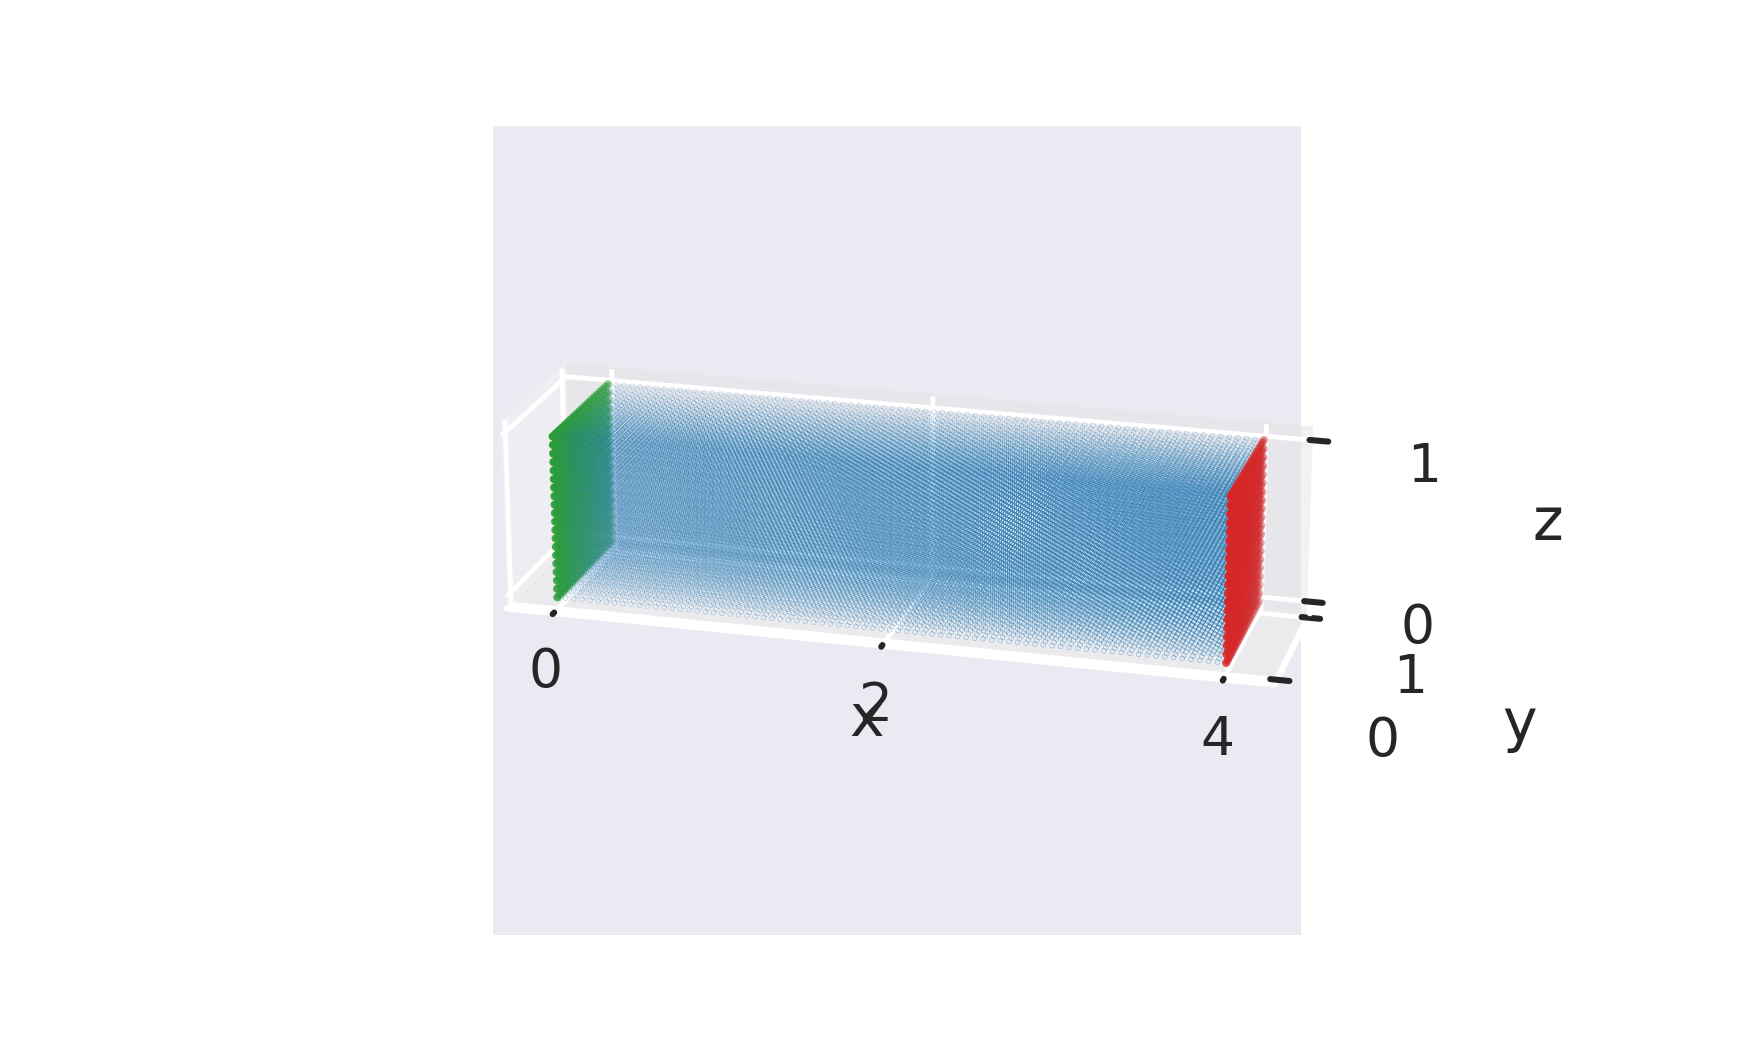
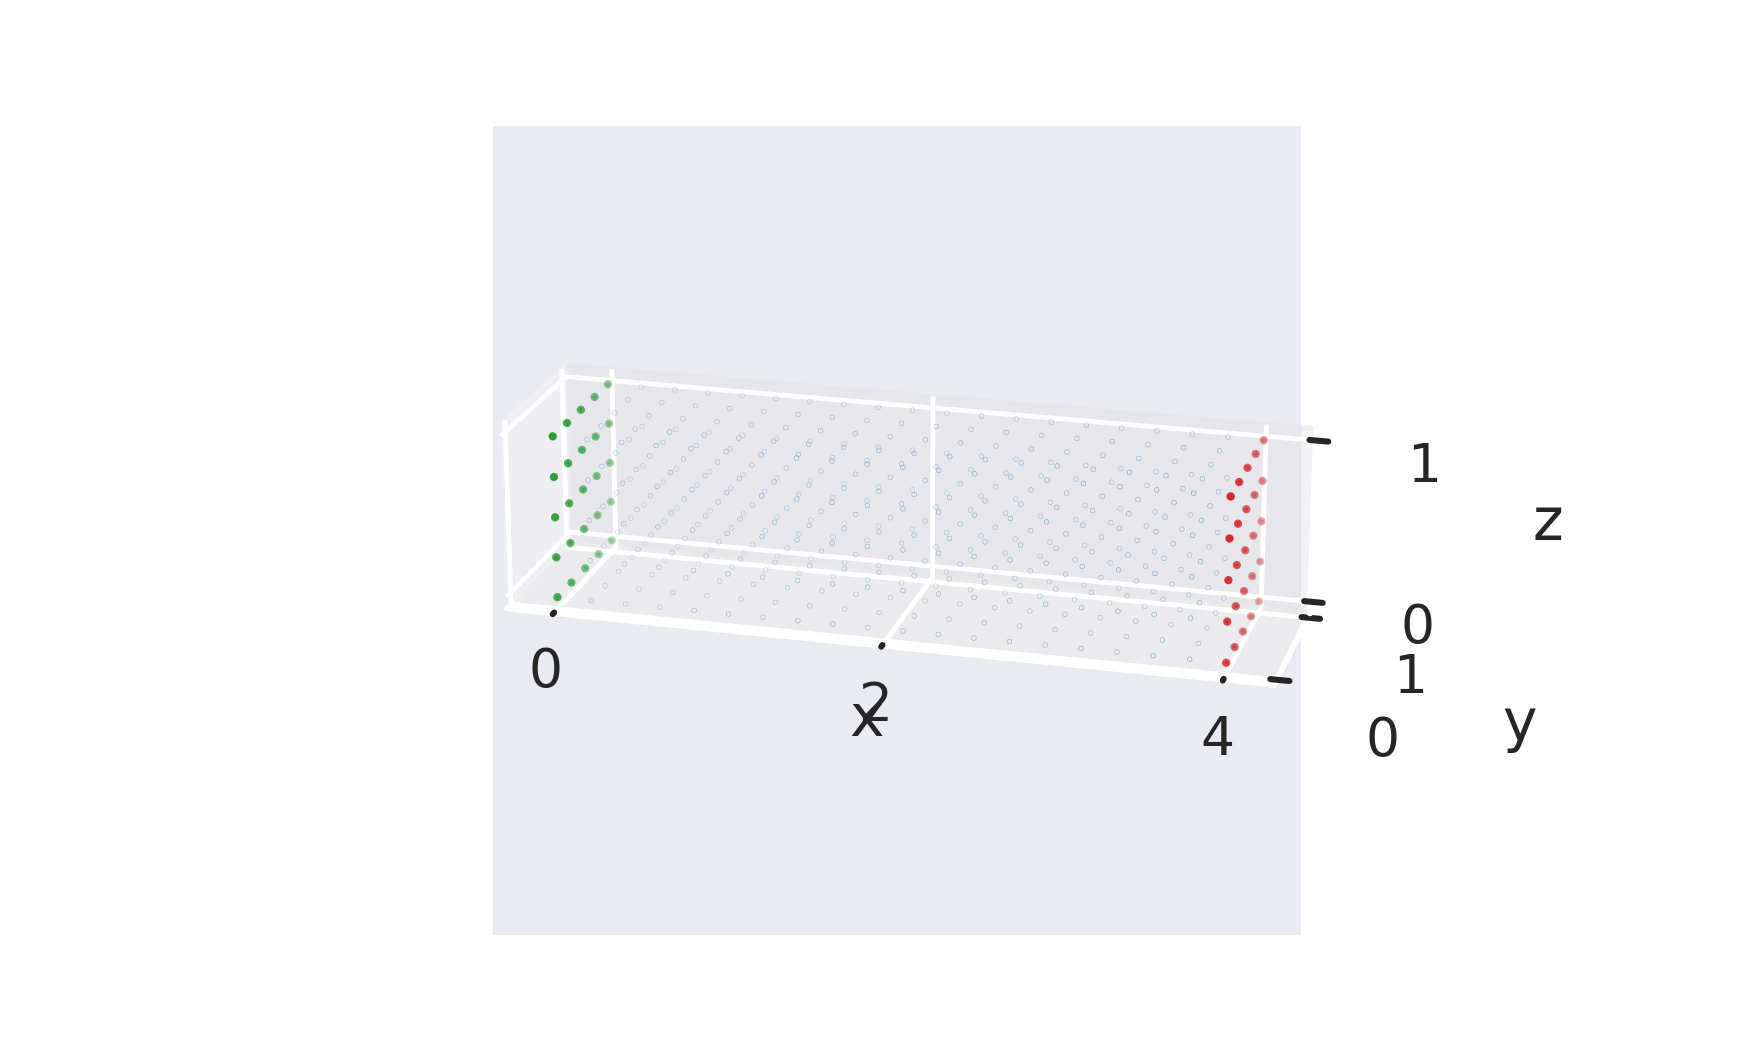
test new domain

Changed region(s): [[0.3086, 0.3657, 0.7406, 0.64]]

diff --git a/3DBeam/DemBeam3D.py b/3DBeam/DemBeam3D.py
@@ -57,12 +57,13 @@ def define_domain(L, H, D, N=25, dir_bcs=None, neu_bcs=None):
     y = np.linspace(0, H, N)
     z = np.linspace(0, D, N)
 
-    Xm, Ym, Zm = np.meshgrid(x, y, z) 
+    Xm, Zm, Ym = np.meshgrid(x, z, y)
     Xm = np.expand_dims(Xm.flatten(), 1)
     Ym = np.expand_dims(Ym.flatten(), 1)
     Zm = np.expand_dims(Zm.flatten(), 1)
     domain = np.concatenate((Xm, Ym, Zm), axis=-1)
-
+    print(domain.shape)
+    # domain[:, 1], domain[:,2] = domain[:,2], domain[:,1]
     db_idx = np.where(Xm == d_boundary)[0]
     db_pts = domain[db_idx, :]
     db_vals = np.ones(np.shape(db_pts)) * d_cond
@@ -102,7 +103,7 @@ def define_domain(L, H, D, N=25, dir_bcs=None, neu_bcs=None):
         'coords': nb_pts,
         'values': nb_vals
     }
-    print(domain.shape)
+
     return domain, dirichlet, neumann
 
 lmbd =  E * nu / ((1 + nu)*(1 - 2*nu))
@@ -319,7 +320,7 @@ if __name__ == '__main__':
     # plot_heatmap(U_norms, num_neurons, num_layers, rf'$L^2$ norm of error with N={N} and $\eta$ = {lr}', 'Number of hidden neurons', 'Number of hidden layers', 'beam_heatmap_num_neurons_layers80')
     # exit()
 
-    N = 20
+    N = 5
     # lrs = [0.001, 0.002, 0.005]
     # num_layers = [3, 4, 5]
     lrs = [.01, .02]
